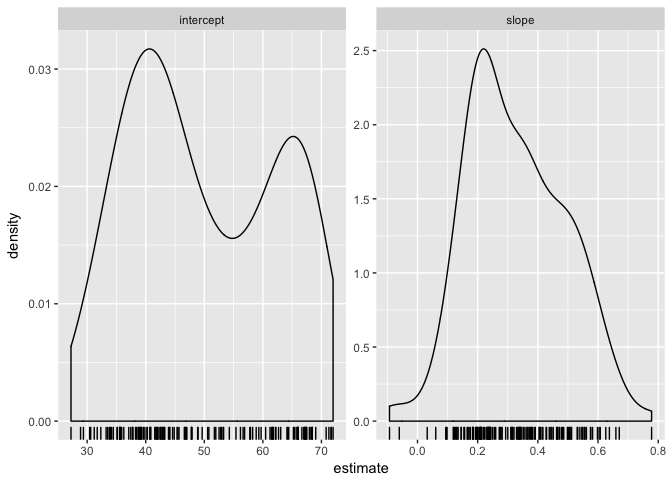
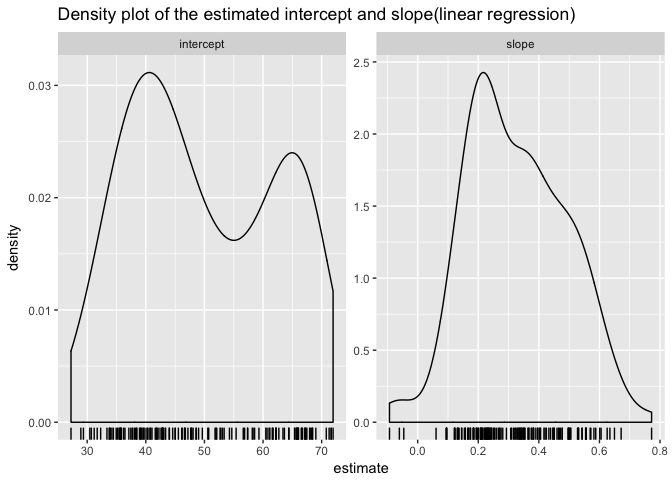
edit

diff --git a/hw 06/hw06.md b/hw 06/hw06.md
@@ -287,7 +287,7 @@ le_vs_yr <- function(df) {
     ## 10    Africa                  Comoros  39.08187 0.45117882
     ## # ... with 132 more rows
 
-**(8)** Numerical and graphical summarization of the estimated intercept and slope.
+**(8)** Numerical summarization of the estimated intercept and slope.
 
 ``` r
 gap_ests %>% 
@@ -375,13 +375,15 @@ Max. : 0.77795
 </tr>
 </tbody>
 </table>
+Graphical summarization of the estimated intercept and slope.
+
 ``` r
 ggplot(gap_coefs, aes(x = estimate)) +
   geom_density() + geom_rug() + facet_wrap(~ term, scales = "free")+
   labs(title= "Density plot of the estimated intercept and slope (robust regression)")
 ```
 
-![](hw06_files/figure-markdown_github-ascii_identifiers/unnamed-chunk-13-1.png)
+![](hw06_files/figure-markdown_github-ascii_identifiers/unnamed-chunk-14-1.png)
 
 ### Challenge:
 
@@ -510,7 +512,7 @@ ggplot(gap_coefs2, aes(x = estimate)) +
     labs(title= "Density plot of the estimated intercept and slope(linear regression)")
 ```
 
-![](hw06_files/figure-markdown_github-ascii_identifiers/unnamed-chunk-15-1.png)
+![](hw06_files/figure-markdown_github-ascii_identifiers/unnamed-chunk-16-1.png)
 
 **(3)** Compare the slopes to see which country has substantial departures from the temporal trend.
 
@@ -725,7 +727,7 @@ multiplot <- function(..., plotlist=NULL, file, cols=1, layout=NULL) {
 multiplot(p1, p2, p3, p4, cols = 2)
 ```
 
-![](hw06_files/figure-markdown_github-ascii_identifiers/unnamed-chunk-17-1.png) **From the plot, we can tell that:**
+![](hw06_files/figure-markdown_github-ascii_identifiers/unnamed-chunk-18-1.png) **From the plot, we can tell that:**
 
 -   There is sudden, substantial departures from the temporal trend of the lifeExp for the four countries.
 
